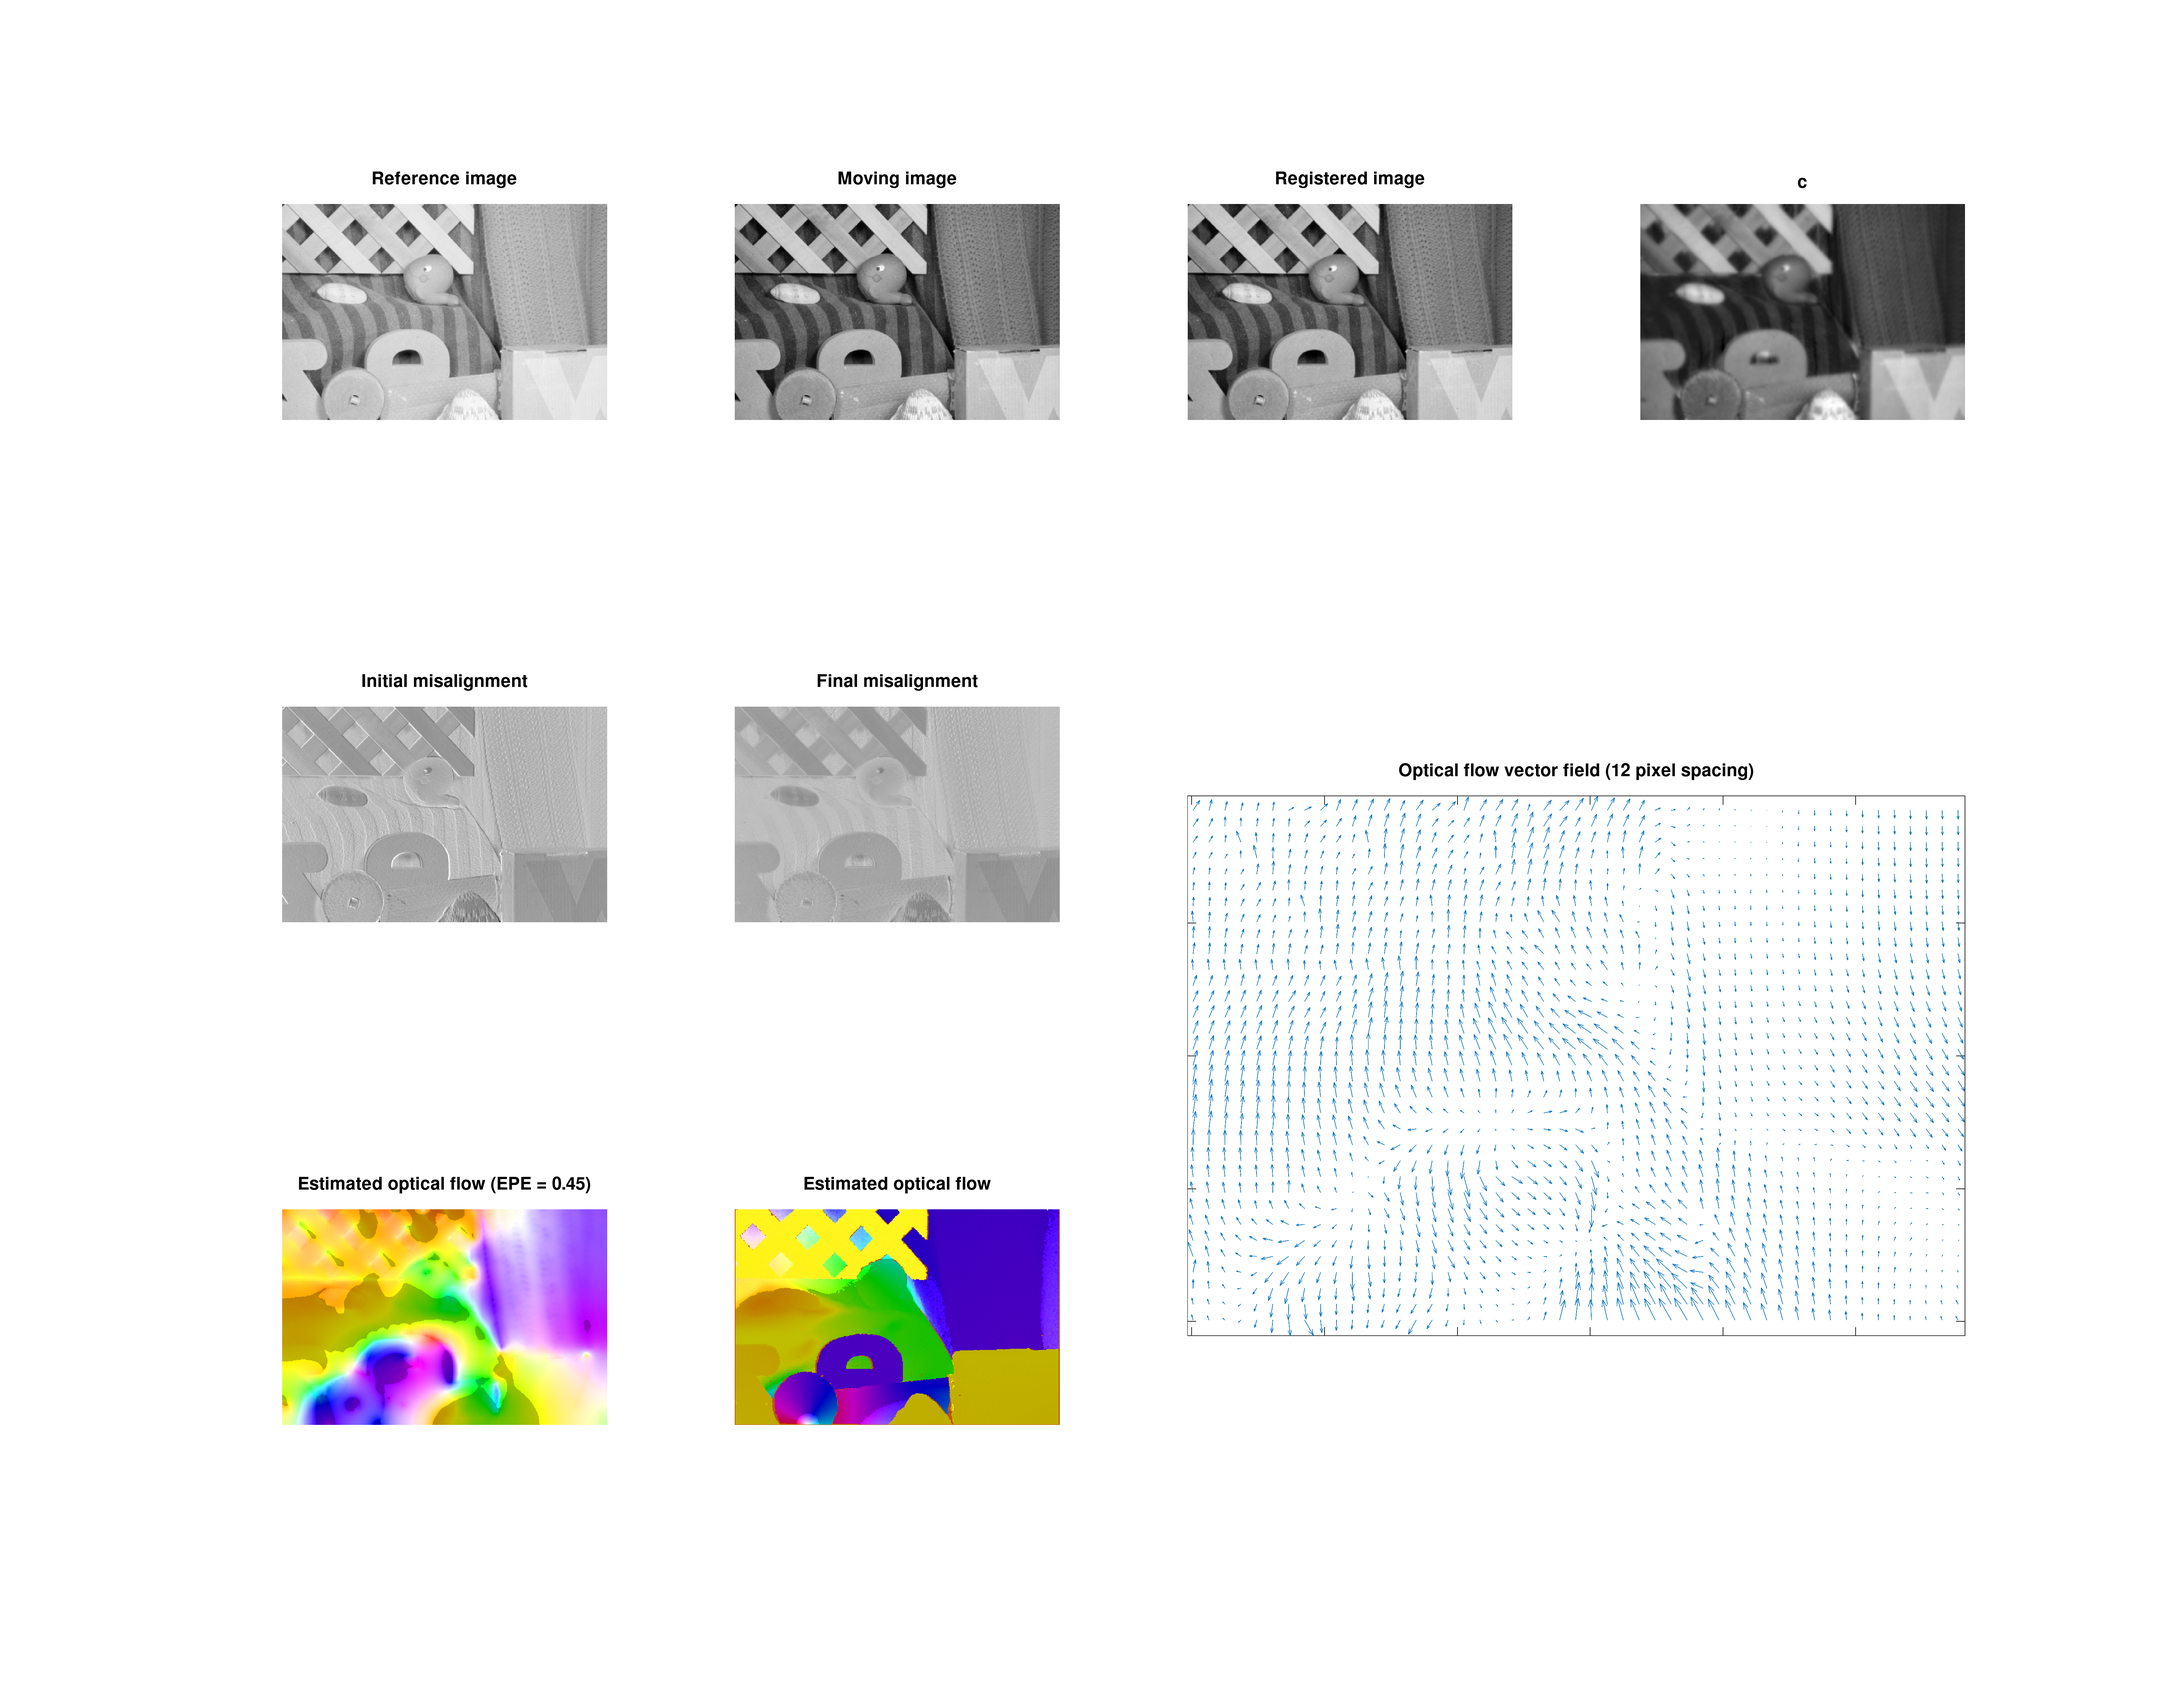
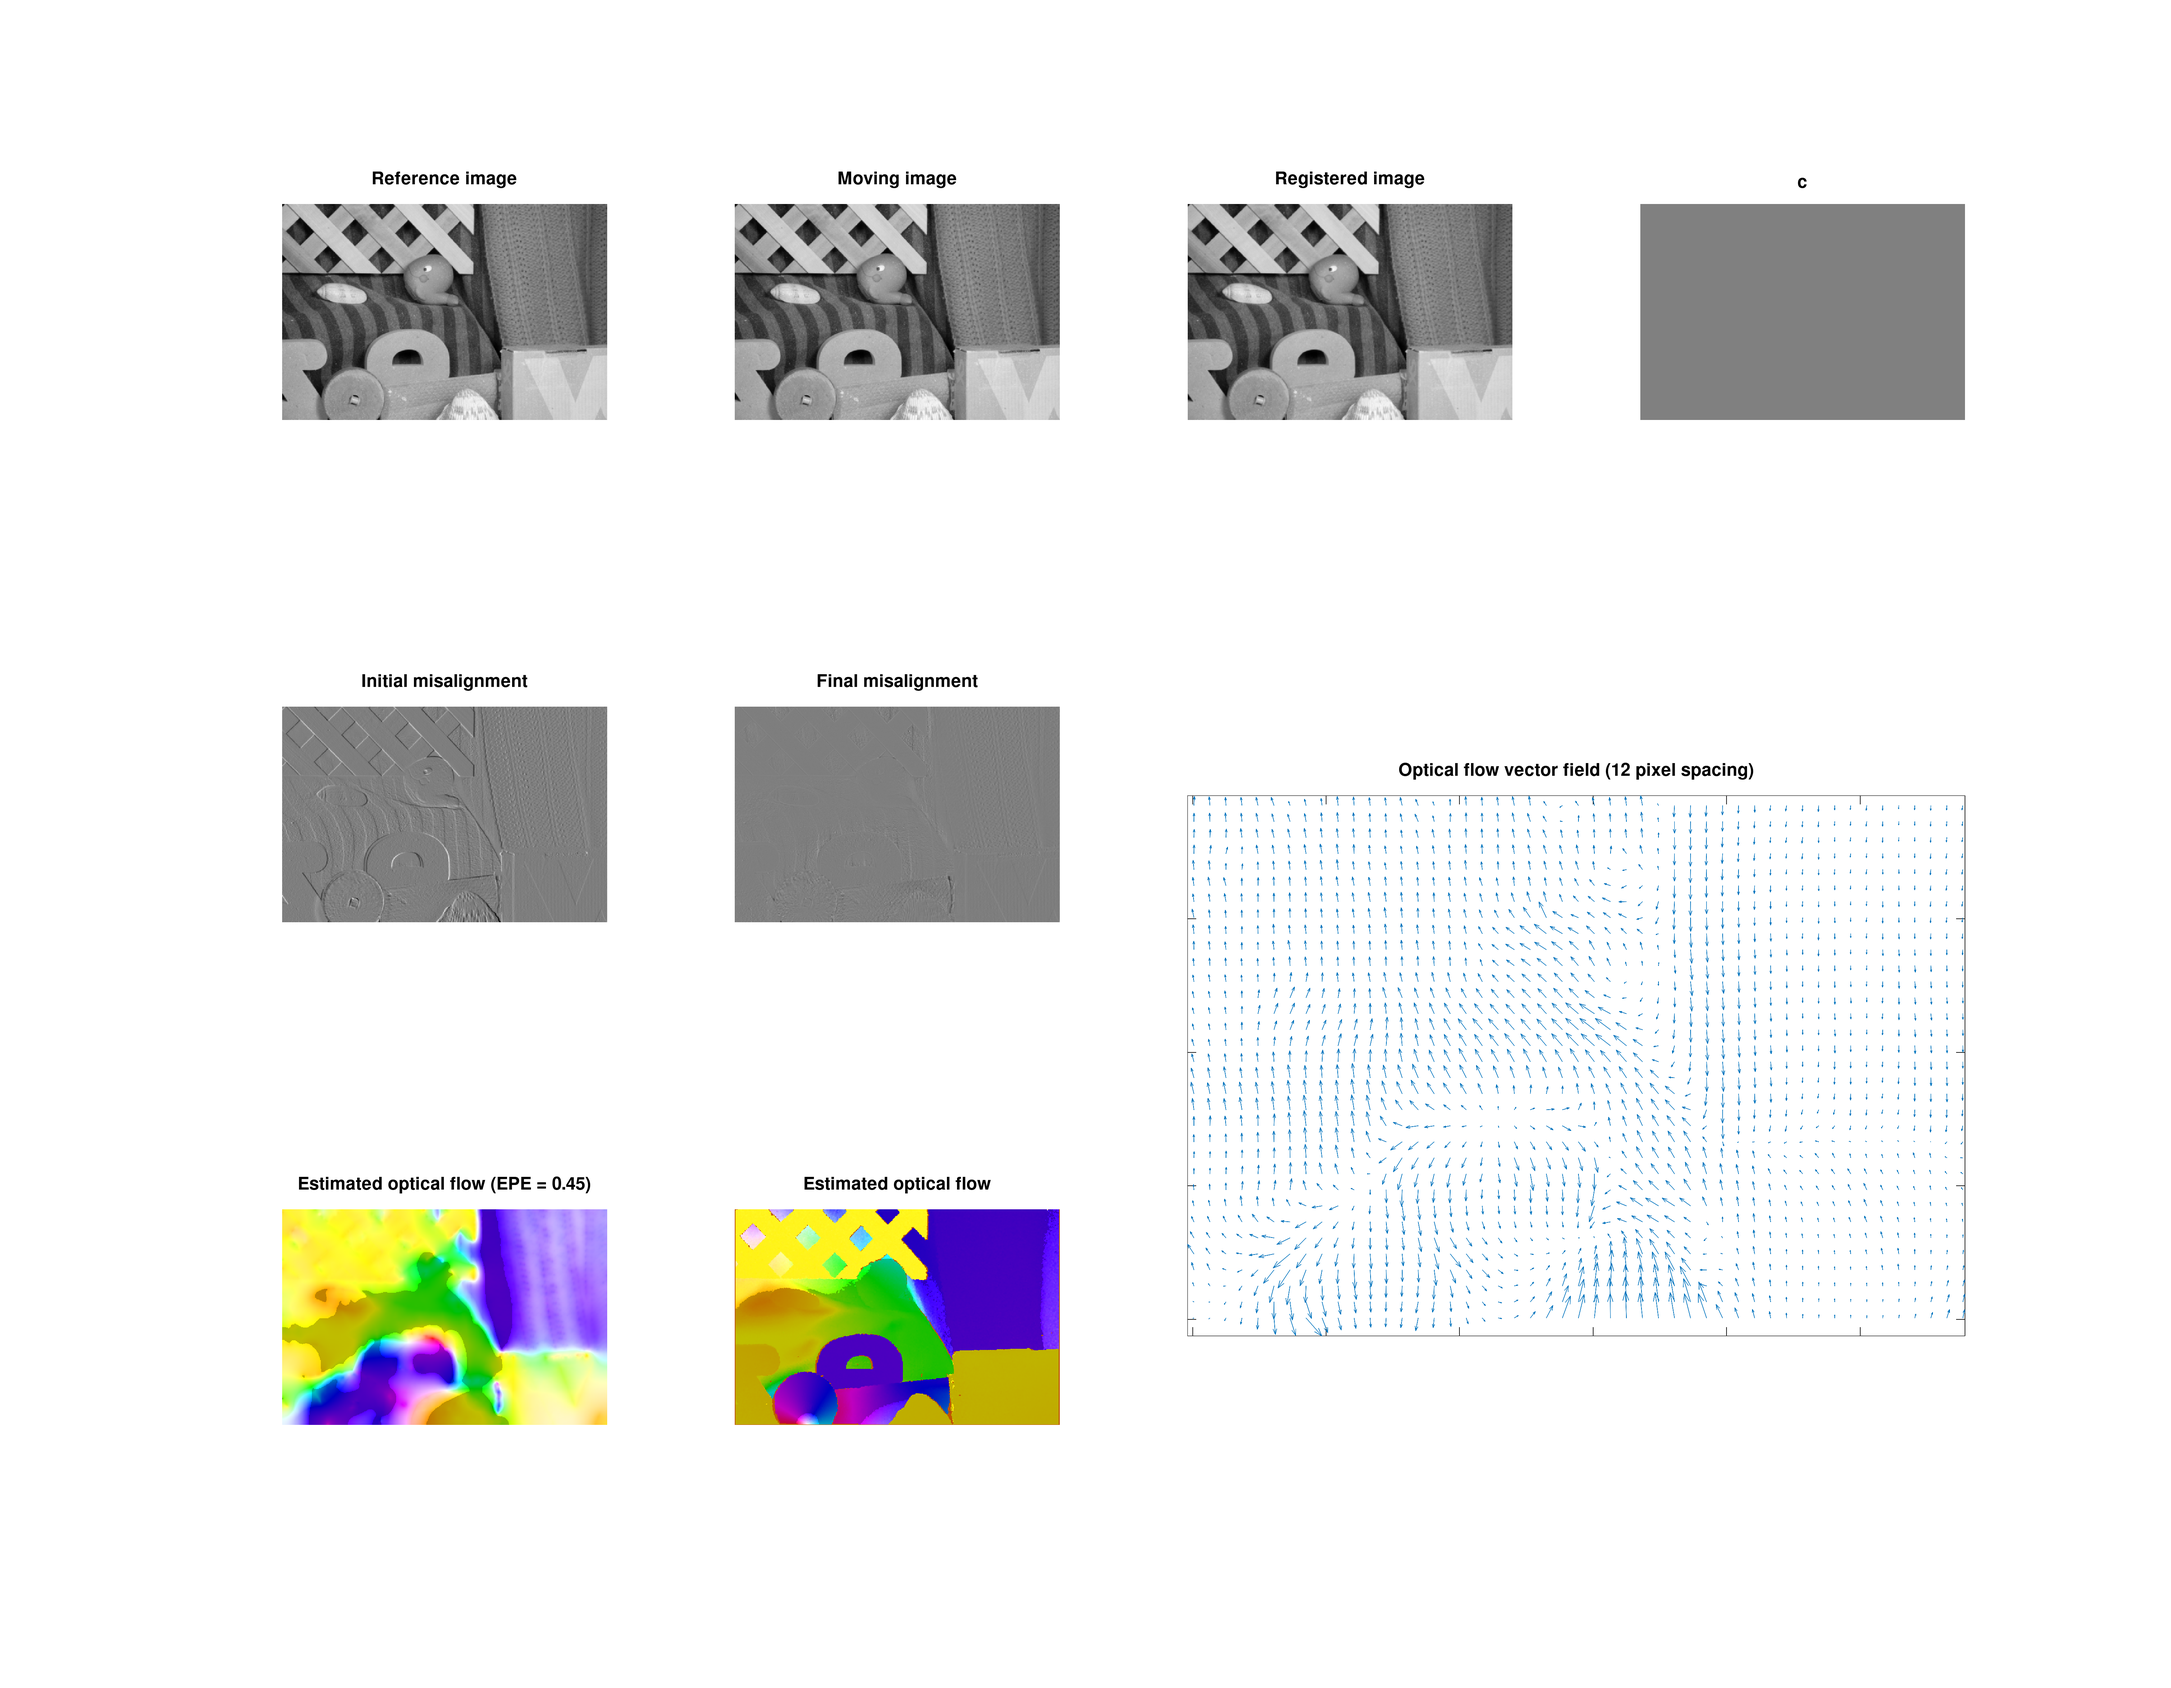
Implemented user-defined resampling factor (eta in Meinhardt-Lopis et al.)

diff --git a/src/ImageRegistration.cpp b/src/ImageRegistration.cpp
@@ -12,11 +12,13 @@ ImageRegistration::ImageRegistration(
     const double alpha,
     const double beta,
     const double eps,
-    const std::size_t nrefine) {
+    const std::size_t nrefine,
+    const double resampling_factor) {
     // Registration parameters
     _nscales = nscales;
     _nrefine = nrefine;
     _option = option;
+    _resampling_factor = resampling_factor;
 
     // Allocate image and motion 
     _Iref = new opticalflow::Image*[nscales + 1];
@@ -25,10 +27,10 @@ ImageRegistration::ImageRegistration(
     _c = new opticalflow::Image*[nscales + 1];
     _solver = new IterativeSolver*[nscales + 1];
     for (int s = static_cast<int>(nscales); s >= 0; s--) {
-        double scale = pow(2.0, s);
+        double scale = pow(_resampling_factor, s);
         const dim dim_s = dim(
-            static_cast<std::size_t> (dimin.x/scale),
-            static_cast<std::size_t> (dimin.y/scale)
+            static_cast<std::size_t> (dimin.x*scale),
+            static_cast<std::size_t> (dimin.y*scale)
         );
 
         _Iref[s] = new opticalflow::Image(dim_s);
@@ -64,7 +66,7 @@ void ImageRegistration::set_reference_image(const opticalflow::Image& image) {
     filter.convolute(*_Iref[0]);
 
     // Anti-aliasing filter for downsampling
-    const double sigma_aa = 0.6 * std::sqrt(1.0 / (0.5 * 0.5) - 1.0);
+    const double sigma_aa = 0.6 * std::sqrt(1.0 / (_resampling_factor * _resampling_factor) - 1.0);
     gaussian_conv2d filter_aa(sigma_aa);
 
     // Build Gaussian pyramid
@@ -85,7 +87,7 @@ void ImageRegistration::set_moving_image(const opticalflow::Image& image) {
     filter.convolute(*_Imov[0]);
 
     // Anti-aliasing filter for downsampling
-    const double sigma_aa = 0.6 * std::sqrt(1.0 / (0.5 * 0.5) - 1.0);
+    const double sigma_aa = 0.6 * std::sqrt(1.0 / (_resampling_factor * _resampling_factor) - 1.0);
     gaussian_conv2d filter_aa(sigma_aa);
 
     // Build Gaussian pyramid

diff --git a/include/mxParser.hpp b/include/mxParser.hpp
@@ -181,20 +181,26 @@ namespace mxParser {
         }
     }
     inline void parse_alpha(double& alpha, const mxArray* config) {
-        if (alpha < 0.0)
-            throw std::runtime_error("regularization parameters alpha has to be a positive scalar");
         alpha = parse_scalar<double>(config, "alpha", std::optional<double>(0.4));
+        if (alpha < 0.0)
+                mexErrMsgIdAndTxt("mxParser:ValueError", "alpha has to be positive");
     }
     inline void parse_beta(double& beta, const mxArray* config) {
-        if (beta < 0.0)
-            throw std::runtime_error("regularization parameters beta has to be a positive scalar");
         beta = parse_scalar<double>(config, "beta", std::optional<double>(0.2));
+        if (beta < 0.0)
+                mexErrMsgIdAndTxt("mxParser:ValueError", "beta has to be positive.");
     }
     inline void parse_convergence_threshold(double& eps, const mxArray* config) {
         eps = parse_scalar<double>(config, "eps", std::optional<double>(1e-3));
     }
     inline void parse_nrefine(std::size_t& nrefine, const mxArray* config) {
         nrefine = parse_scalar<std::size_t>(config, "nrefine", std::optional<std::size_t>(0));
+    }
+
+    inline void parse_resampling_factor(double& resampling_factor, const mxArray* config) {
+        resampling_factor = parse_scalar<double>(config, "resampling_factor", std::optional<double>(0.5));
+        if (resampling_factor <= 0 || resampling_factor >= 1)
+                mexErrMsgIdAndTxt("mxParser:ValueError", "field resampling_factor has to contain a value between 0 and 1.");
     }
 }
 

diff --git a/opticalflow2d_middlebury.cpp b/opticalflow2d_middlebury.cpp
@@ -30,6 +30,7 @@ struct json_config {
     double alpha;
     double beta;
     double eps;
+    double resampling_factor;
 };
 
 json_config load_config(const std::string& filename) {
@@ -62,6 +63,7 @@ json_config load_config(const std::string& filename) {
     config.alpha = registration.at("alpha").get<double>();
     config.beta = registration.at("beta").get<double>();
     config.eps = registration.at("eps").get<double>();
+    config.resampling_factor = registration.at("resampling_factor").get<double>();
 
     return config;
 }
@@ -124,7 +126,7 @@ int main(int argc, char* argv[]) {
 
     // Initialize registration class
     std::cout << "Initialize ImageRegistration class...";
-    ImageRegistration myImageRegistration(dimin, config.option, config.nscales, config.niter.data(), config.alpha, config.beta, config.eps, config.nrefine);
+    ImageRegistration myImageRegistration(dimin, config.option, config.nscales, config.niter.data(), config.alpha, config.beta, config.eps, config.nrefine, config.resampling_factor);
     std::cout << "Complete!" << std::endl;
 
     // Set images

diff --git a/src/WrapperOpticalFlow2d.cpp b/src/WrapperOpticalFlow2d.cpp
@@ -40,7 +40,10 @@ void mexFunction (int nlhs, mxArray *plhs[], int nrhs, const mxArray *prhs[]) {
         double eps;
         mxParser::parse_convergence_threshold(eps, prhs[0]);
 
-        myImageRegistration = new ImageRegistration(dimin, option, nscales, niter, alpha, beta, eps, nrefine);
+        double resampling_factor;
+        mxParser::parse_resampling_factor(resampling_factor, prhs[0]);
+
+        myImageRegistration = new ImageRegistration(dimin, option, nscales, niter, alpha, beta, eps, nrefine, resampling_factor);
 
         // Set the output dimension for image and motion field
         dim_image_mw = new mwSize[2];

diff --git a/include/ImageRegistration.h b/include/ImageRegistration.h
@@ -17,7 +17,8 @@ class ImageRegistration {
                           const double alpha,
                           const double beta,
                           const double eps,
-                          const std::size_t nrefine);
+                          const std::size_t nrefine,
+                          const double resampling_factor);
         ~ImageRegistration();
 
         // Getters and setters
@@ -34,6 +35,7 @@ class ImageRegistration {
         std::size_t _nscales;
         std::size_t _nrefine;
         ModelOption _option;
+        double _resampling_factor;
 
         IterativeSolver** _solver;
 

diff --git a/opticalflow2d_middlebury.m b/opticalflow2d_middlebury.m
@@ -98,6 +98,7 @@ config.alpha                = config_json.registration.alpha;
 config.beta                 = config_json.registration.beta;
 config.eps                  = config_json.registration.eps;
 config.nrefine              = config_json.registration.nrefine;
+config.resampling_factor    = config_json.registration.resampling_factor;
 
 %% ============================================================
 % Initialize C++ optical-flow object
